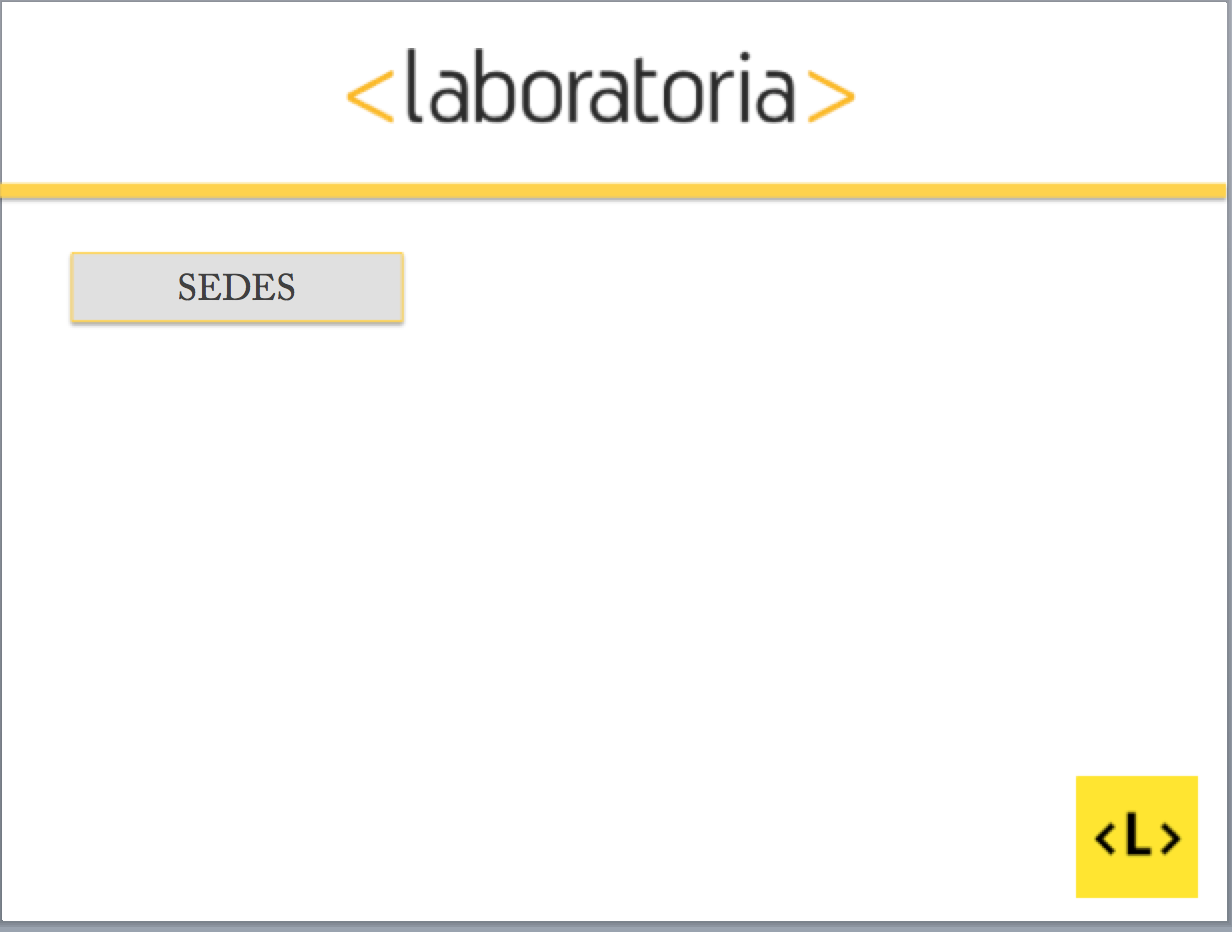
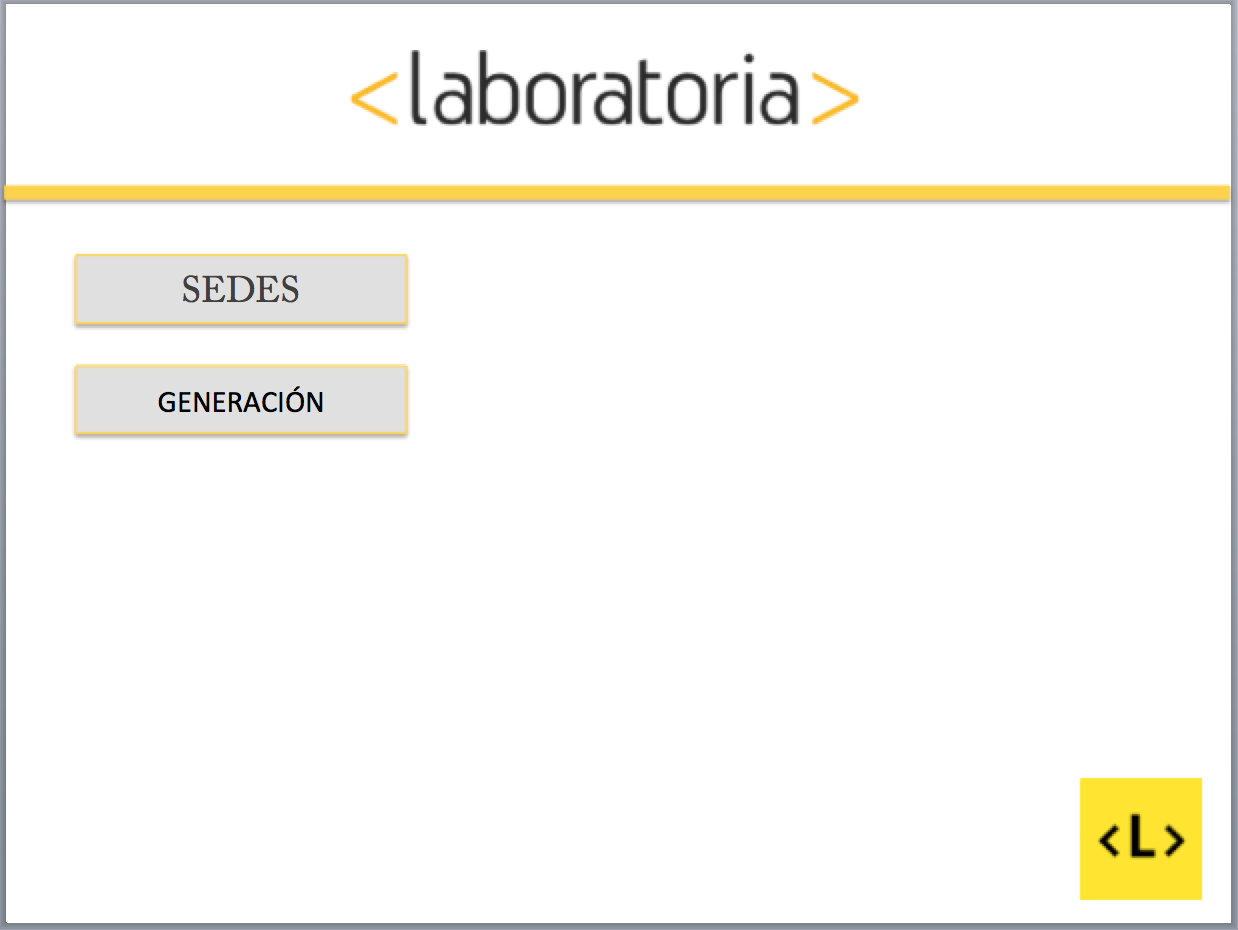
nuevos scketch

Changed region(s): [[0.0, 0.0, 1.0, 0.9978], [0.0617, 0.2495, 0.3393, 0.4989], [0.2776, 0.0624, 0.7094, 0.1559]]

diff --git a/src/index.html b/src/index.html
@@ -13,6 +13,9 @@
         <hr>
       </div>
       <div class="row">
+        <nav>
+          <li> <a href="#">SEDE</a</li>
+        </nav>
 
           <form action="" class="row justify-content-left">
             <select id="sede" required  class="input-group mb-3">
